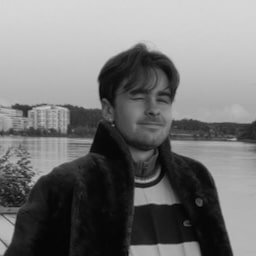
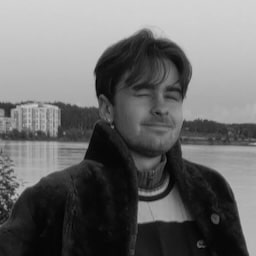
Update team member images

diff --git a/index.html b/index.html
@@ -729,11 +729,11 @@
                   <p>Ivar Norén</p>
                 </li>
                 <li class="team-member">
-                  <img src="img/team/placeholder.png" alt="" />
-                  <p>Ludvig Lönnberg</p>
+                  <img src="img/team/ludwig-lonnberg.jpg" alt="" />
+                  <p>Ludwig Lönnberg</p>
                 </li>
                 <li class="team-member">
-                  <img src="img/team/placeholder.png" alt="" />
+                  <img src="img/team/rasmus-eriksson-rustan.jpeg" alt="" />
                   <p>Rasmus Eriksson Rustan</p>
                 </li>
                 <li class="team-member">
@@ -773,7 +773,7 @@
                   <p>Jesper Olofsson</p>
                 </li>
                 <li class="team-member">
-                  <img src="img/team/placeholder.png" alt="" />
+                  <img src="img/team/joel-lindstrom.jpg" alt="" />
                   <p>Joel Kolm Lindström</p>
                 </li>
                 <li class="team-member">
@@ -813,7 +813,7 @@
                   <p>Dino Felarca</p>
                 </li>
                 <li class="team-member">
-                  <img src="img/team/placeholder.png" alt="" />
+                  <img src="img/team/josefine-lundin.jpeg" alt="" />
                   <p>Josefine Lundin</p>
                 </li>
                 <li class="team-member">
